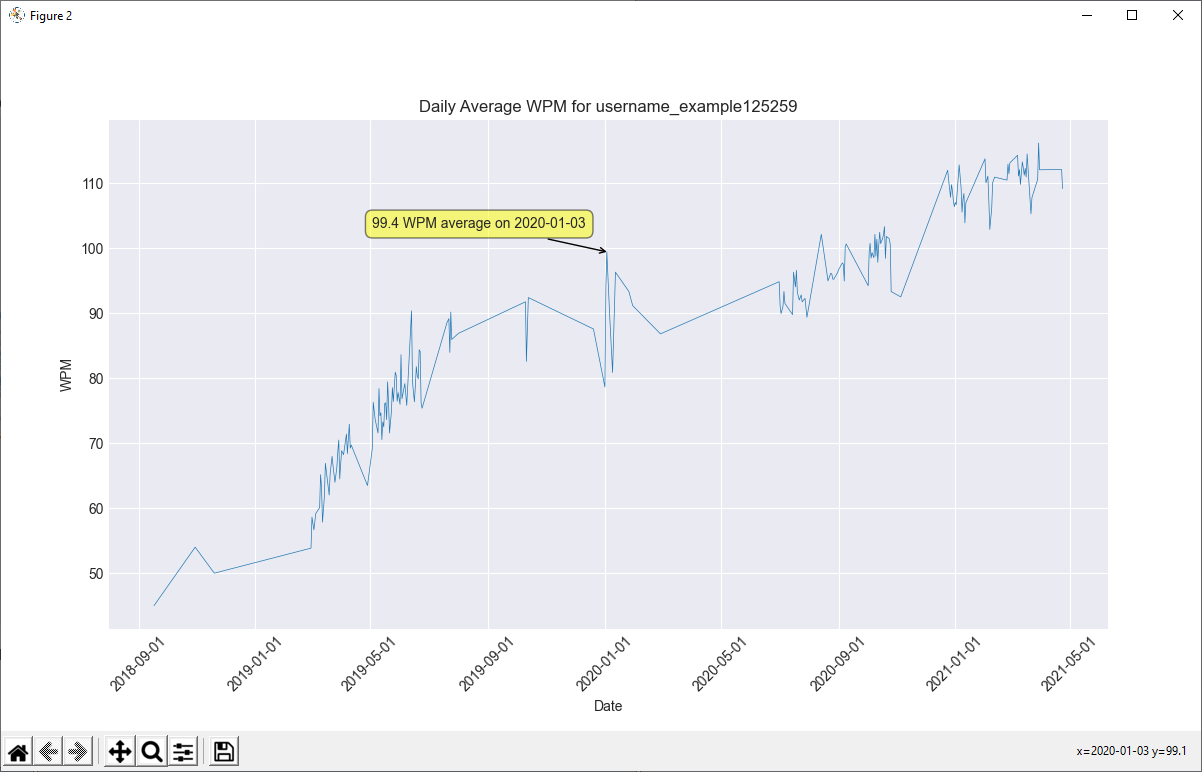
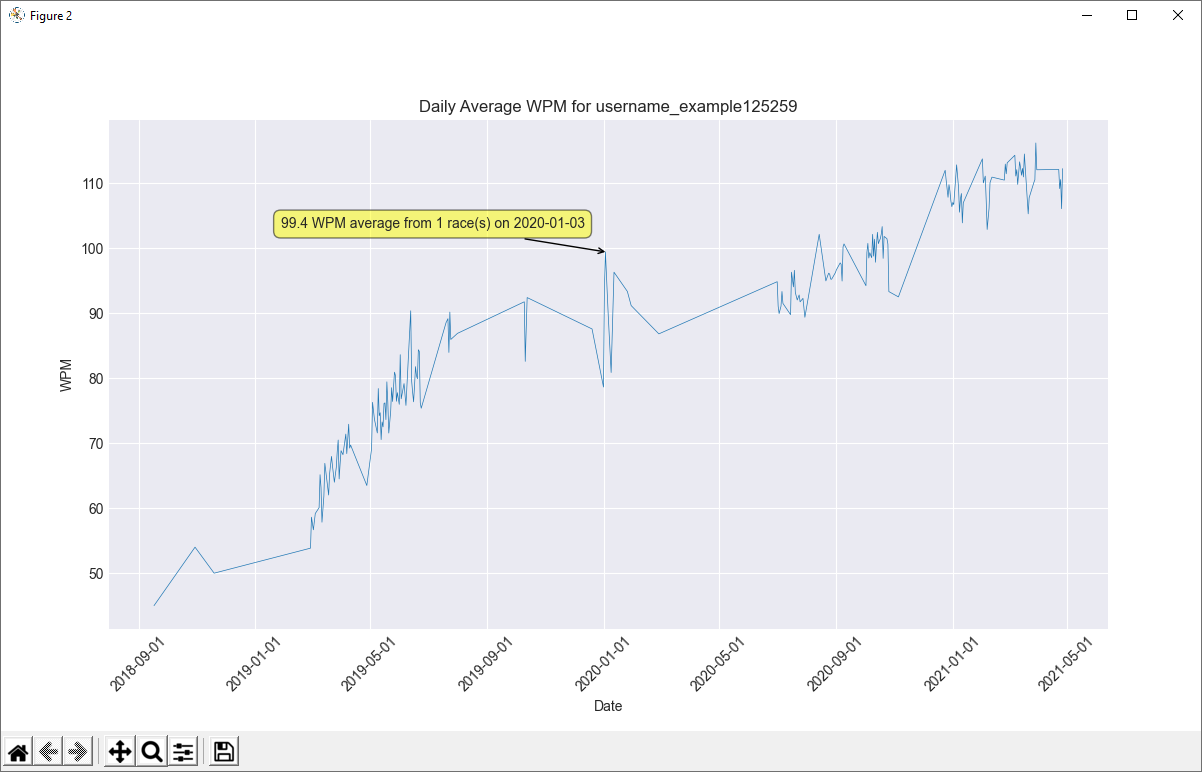
display # of races of a day + added border around legend

diff --git a/src/grapher.py b/src/grapher.py
@@ -89,7 +89,7 @@ def scatterplot(x, y):
     color_cycle = ax._get_lines.prop_cycler
     ax.scatter(x, y, s=10, color=next(color_cycle)["color"], alpha=0.25)
     ax.plot(x, r_avg, color=next(color_cycle)["color"])
-    ax.legend(labels=[avg_label, "Single Race"], loc="lower right")
+    ax.legend(labels=[avg_label, "Single Race"], loc="lower right", frameon=True)
     ax.set_axisbelow(True)
 
     # Customizing the Axes
@@ -119,7 +119,7 @@ def lineplot(x, y):
     # Show annotations on hover
     crs = mplcursors.cursor(dots, hover=True)
     crs.connect("add", lambda sel: sel.annotation.set_text(
-        f"{y[sel.target.index]:.1f} WPM average on {x[sel.target.index].strftime('%Y-%m-%d')}")
+        f"{y[sel.target.index]:.1f} WPM average from {len(avg_of_day[x[sel.target.index]])} race(s) on {x[sel.target.index].strftime('%Y-%m-%d')}")
     )
 
 

diff --git a/README.md b/README.md
@@ -13,7 +13,7 @@ Once downloaded, double-click `run.bat` to start the program. All necessary libr
 This graph displays a scatterplot showing all races of a user. Additionally, a trendline may be plotted displaying either the running average of the last `n` races or the cumulative average of all races. Hovering over a point does not show an annotation for this graph.
 
 ### Daily Average WPM
-This graph displays a line graph showing a user's daily average over time. Hovering over a point will show an annotation displaying the user's daily average on a specific date.
+This graph displays a line graph showing a user's daily average over time. Hovering over a point will show an annotation displaying the user's daily average on a specific date along with the number of races they did on that date.
 
 ### Passing Arguments
 Running this program requires passing 2 arguments shown in the order shown below:
